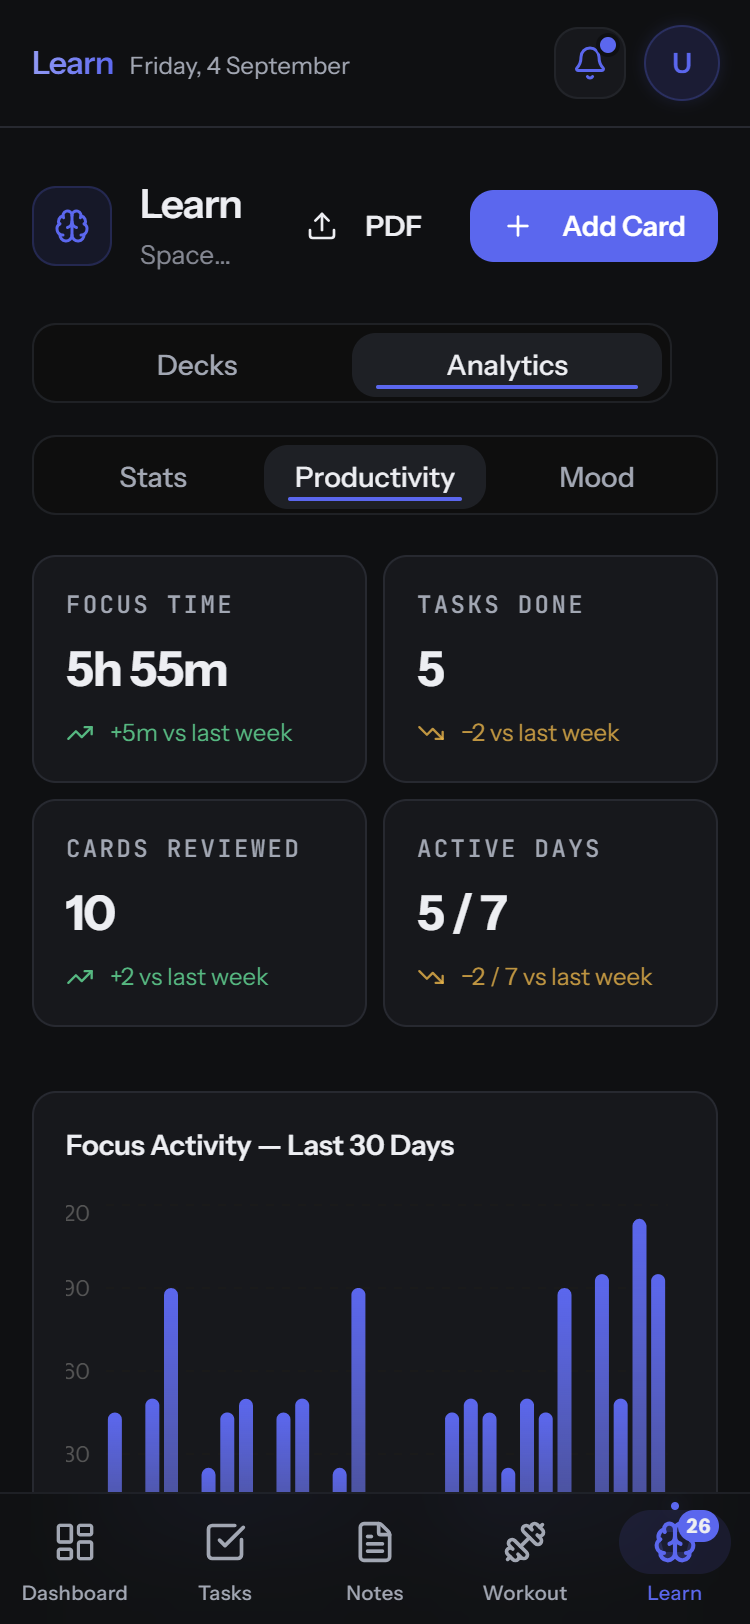
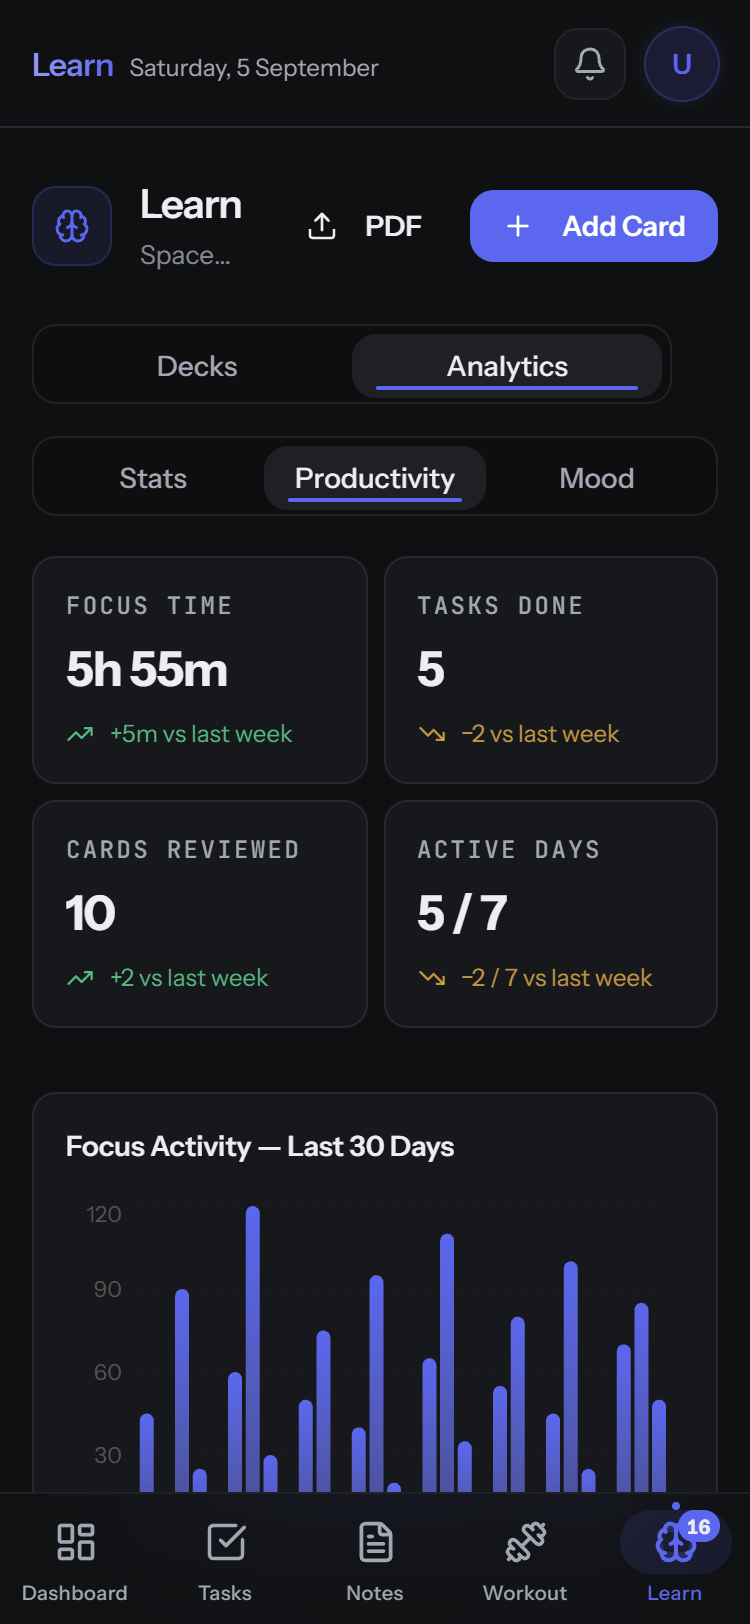
fix(analytics): stop the Focus Activity Y-axis clipping its tick labels
The chart's BarChart carried margin.left: -16 to reclaim gutter space.
Recharts lays the Y-axis band at [margin.left, margin.left + width], and
the SVG viewBox starts at x=0 — so a negative left paints the tick labels
outside the viewport and the glyphs are clipped at the SVG boundary.

Measured at 375x812 before the fix (x relative to the SVG's left edge):

  "0"    left=  4.7   clipped 0px
  "30"   left= -1.8   clipped 1.8px
  "60"   left= -2.1   clipped 2.1px
  "90"   left= -2.1   clipped 2.1px
  "120"  left= -5.8   clipped 5.8px

The SVG text content was always correct — the data and the tick formatter
were never at fault, only the paint position. "120" losing 5.8px drops its
leading digit and reads as "20"; "60" losing 2.1px reads as "30", which is
what made the axis look like 20/90/30/30.

Setting left back to 0 puts the whole band inside the viewBox. After:
every tick clipped 0px, "120" starting at x=10.2. The plot area starts
16px further right, which at 375px narrows the bars by about 5%.

This was NOT mobile-specific — desktop clipped by the identical amounts,
since the margin is viewport-independent. Both widths are fixed.

analytics.png is re-captured against a local production build showing the
corrected axis. The other seven screenshots are untouched.

diff --git a/components/srs/ProductivityPanel.tsx b/components/srs/ProductivityPanel.tsx
@@ -219,7 +219,12 @@ export function ProductivityPanel() {
             <ResponsiveContainer width="100%" height="100%">
               <BarChart
                 data={data.dailyFocus}
-                margin={{ top: 4, right: 8, bottom: 0, left: -16 }}
+                // left MUST NOT go negative to reclaim gutter. Recharts lays the
+                // Y-axis band at [margin.left, margin.left + width]; the SVG
+                // viewBox starts at x=0, so a negative left paints tick labels
+                // outside it and the glyphs are clipped. At -16 a 3-digit
+                // "120" started at x=-5.8 and rendered as "20".
+                margin={{ top: 4, right: 8, bottom: 0, left: 0 }}
               >
                 <defs>
                   <linearGradient id="focusBarGradient" x1="0" y1="0" x2="0" y2="1">
